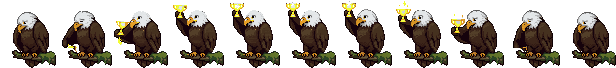
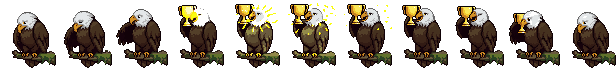
Use my trophy variant E (seed 322) exactly as PixelLab drew it
Replaces main's recoloured E. Build script now treats the trophy like the
cheer: kept as drawn, branch from the awake frame.

diff --git a/scripts/build-eagle-sprites.py b/scripts/build-eagle-sprites.py
@@ -718,17 +718,14 @@ def snap_trophy(frames, k=8):
     return out
 
 
-trophy80 = snap_trophy(pixellab_frames("trophy"))
+# Variant E (seed 322), kept exactly as PixelLab drew it, same treatment as the cheer.
+trophy80 = [shift(f) for f in (lambda sheet: [sheet[:, 80 * i:80 * i + 80].copy()
+              for i in range(sheet.shape[1] // 80)])(
+                  np.asarray(Image.open(SRC / "pixellab-trophy.png").convert("RGBA")))]
 for f in trophy80:
     f[LOCK:] = awake80[LOCK:]
-    f[BRANCH_TOP:LOCK] = np.where((f[BRANCH_TOP:LOCK, :, 3:4] > 0) & ~(is_foot_px(f[BRANCH_TOP:LOCK])[..., None]),
-                                  awake80[BRANCH_TOP:LOCK], f[BRANCH_TOP:LOCK])
-    # PixelLab lit the far end of the branch orange in the middle frames; put the wood back
-    lit = (f[..., 3] > 0) & ~trophy_gold(f)
-    rgbf = f[..., :3].astype(int)
-    lit &= (rgbf[..., 0] > 150) & (rgbf[..., 0] > rgbf[..., 2] + 60)
-    lit[:BRANCH_TOP - 4] = False; lit[:, FOOT[0] - 3:FOOT[1] + 4] = False
-    f[lit] = awake80[lit]
+trophy80 = snap_extra(trophy80)
+for f in trophy80:
     f[:y0] = 0; f[y1:] = 0; f[:, x1:] = 0
 Image.fromarray(finish(trophy80), "RGBA").save(OUT / "eagle-trophy.png", optimize=True)
 
